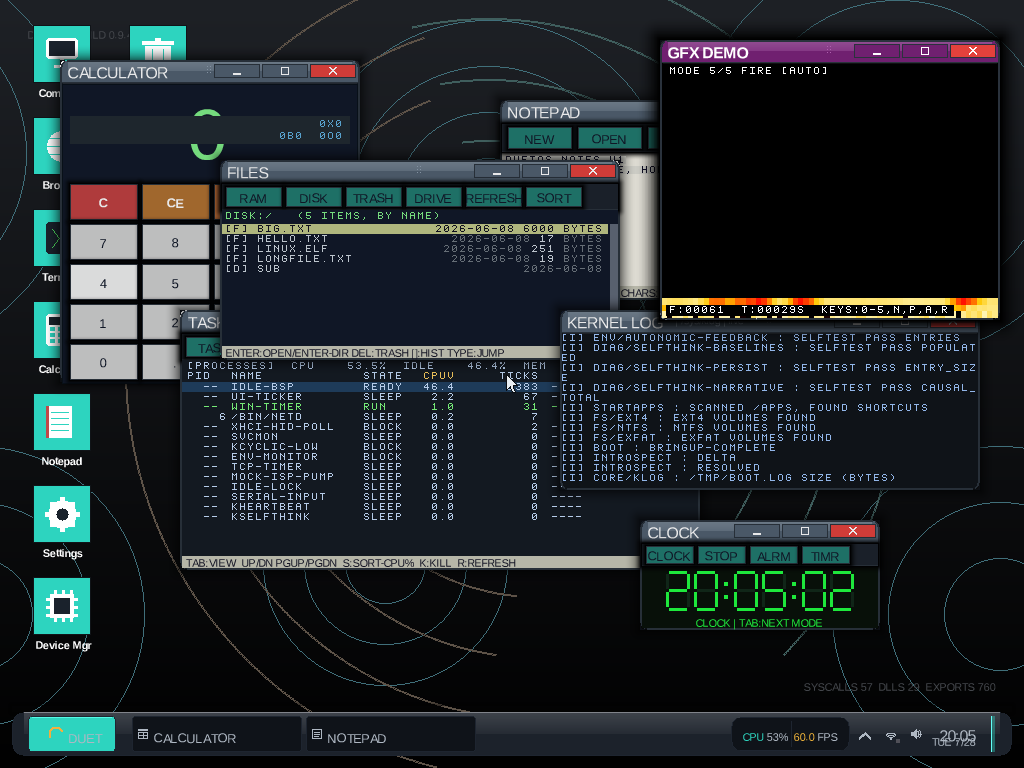
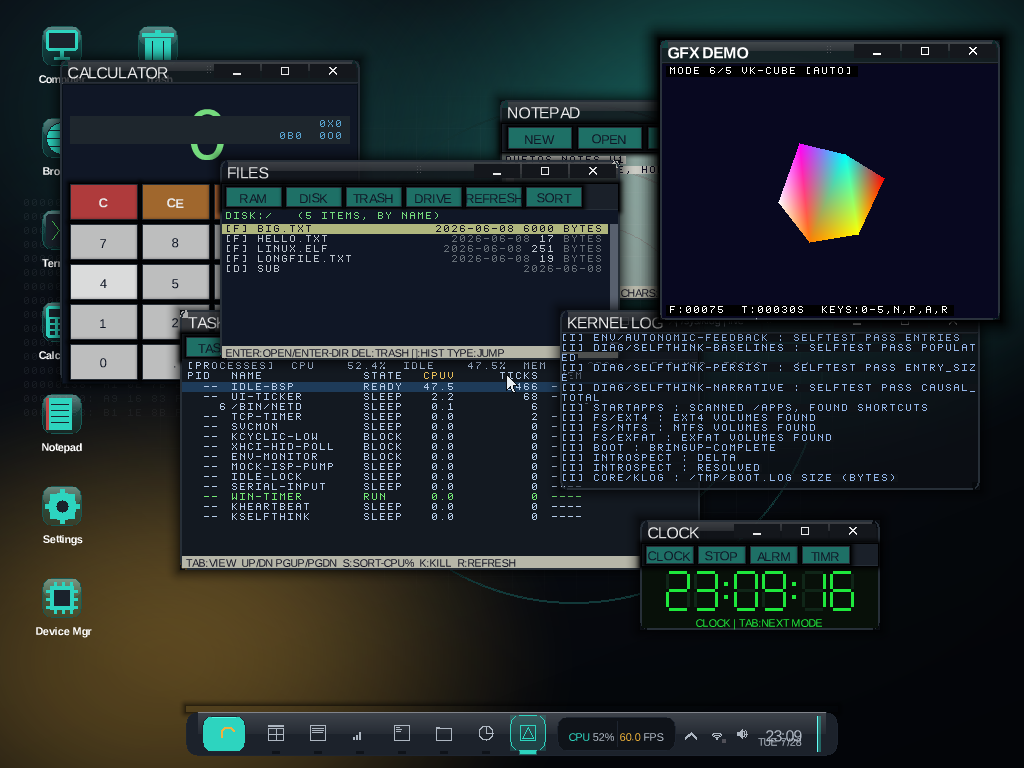
wiki: document the Aurora backdrop, glass body and island content model
Compositor.md gains the wallpaper and desktop-icon sections, the three
new Theme tokens, the glass-body paint contract with its no-blur GAP,
and the explanation of why a content-derived island still measured 98%
of the screen. Design-Decisions records the cached-surface choice and
the neutral-title-strip reading of IMPLEMENTATION section 1.

Screenshots 06 and 09 regenerated on the new chrome.

diff --git a/kernel/drivers/video/wallpaper_aurora.cpp b/kernel/drivers/video/wallpaper_aurora.cpp
@@ -21,11 +21,11 @@ namespace
 struct Palette
 {
     u32 bg0, bg1, bg2;
-    u32 hairline;        // --line, pre-opacity
-    u8 hairline_alpha;   // --line alpha * layer opacity
-    u32 ink2;            // hex-dump band ink
-    u32 vignette;        // --vignette colour
-    u8 vignette_alpha;   // --vignette alpha
+    u32 hairline;      // --line, pre-opacity
+    u8 hairline_alpha; // --line alpha * layer opacity
+    u32 ink2;          // hex-dump band ink
+    u32 vignette;      // --vignette colour
+    u8 vignette_alpha; // --vignette alpha
 };
 
 constexpr Palette kDark = {
@@ -149,8 +149,8 @@ void PaintBlob(u32 w, u32 h, u32 rgb, u32 cx_pct, u32 cy_pct, u32 rx_pct, u32 ry
             {
                 continue;
             }
-            const i64 f = kOne - d2;               // Q12, 1.0 at the centre
-            const i64 falloff = (f * f) >> 12;     // squared shoulder
+            const i64 f = kOne - d2;           // Q12, 1.0 at the centre
+            const i64 falloff = (f * f) >> 12; // squared shoulder
             const u32 a = static_cast<u32>((static_cast<i64>(peak) * falloff) >> 12);
             CacheBlend(static_cast<u32>(x), static_cast<u32>(y), rgb, a);
         }

diff --git a/wiki/subsystems/Compositor.md b/wiki/subsystems/Compositor.md
@@ -402,6 +402,9 @@ chrome (not type) scales by ≈ 0.53.
 | `gloss_alpha` | 38 (26 light) | 0 | top of the title-bar specular ramp |
 | `taskbar_island` | true | false | taskbar floats as a centred island |
 | `taskbar_inset` | 12 | 0 | gap from the screen edge when island |
+| `accent_peer` | `#ffc046` | 0 | second accent — "Win32 PE peer" amber |
+| `aurora_wallpaper` | true | false | six-layer backdrop instead of the flat painter |
+| `glass_alpha` | 148 | 0 | window body / title-bar composite alpha |
 
 All of them ride `ThemeTactilityEffective()`, so `tactility=off` on the
 cmdline (or `tactility off` at the shell) still yields genuinely flat
@@ -422,6 +425,68 @@ chrome for the debug / screenshot workflow.
   fade reads as a generic gradient.
 - **Sheen hairline.** 1-px white line on the very top edge, fading to
   nothing at both ends, approximated with 16 constant-alpha segments.
+- **Glass body.** With `glass_alpha` set, the body and title bar are
+  `FramebufferBlendFill`ed over the compose surface rather than stamped
+  opaque, so the wallpaper's glow reads through the chrome. Windows are
+  already drawn back-to-front, so an overlapping sibling shows through
+  too. The title bar runs denser than the body (`a + (255-a)/2`) so a
+  13-px title still reads. Corners are cut by splitting the blend into
+  a full-width band plus an inset cap — `BlendFill` is square and
+  `FillRoundRect` is opaque, and at radius 8 a single inset is within a
+  pixel of the true arc.
+  **GAP:** no backdrop blur. The design's 36-px blur-behind would need
+  a cached per-window box blur of the compose surface
+  (`IMPLEMENTATION.md` §4 "full version"); the glass tints but does not
+  frost.
+- **Neutral title strip.** On glass the title bar paints a single
+  neutral `--bg-3` shade for every window rather than the per-role hue,
+  matching the reference desktop; the role colour survives in the
+  client fill, the taskbar glyph and the indicator pill. The close box
+  likewise sits in the strip and only floods `--danger` on hover.
+
+### Wallpaper (`wallpaper_aurora.cpp`)
+
+`README.md` §1 specifies a six-layer backdrop that no flat per-theme
+painter can express. `AuroraWallpaperPaint` builds it:
+
+1. `linear-gradient(158deg, --bg-2, --bg-1 52%, --bg-0)`
+2. three radial accent blobs (teal 74%/20%, amber 16%/86%, teal 22%/14%)
+3. a 32-px hairline grid under a radial mask
+4. the hex-dump band — `((r*40+c)*1103515245+12345) & 0xff`, 24 bytes a
+   row, under a 105° linear mask
+5. the counter-rotating arcs watermark at 56% / 46%
+6. the vignette
+
+Layers 1–4 and 6 are static for a given (geometry, palette) pair and
+cost roughly 800 k per-pixel blends, so they are generated once into a
+cached full-screen surface (`AllocateContiguousFrames`, ~3 MB at
+1024 × 768) and blitted per compose; `DesktopCompose` skips its own
+base gradient when `aurora_wallpaper` is set, since the blit covers
+every pixel. Layer 5 rides the ambient-motion phase and is painted
+live on top by `wallpaper.cpp`. A failed cache allocation logs
+`[video/aurora] backdrop cache alloc failed` and falls back to the
+pre-Aurora topo + arcs + brand-strap painter, so the desktop is never
+left unpainted.
+
+Two honest approximations, both because the framebuffer's arc and
+round-rect primitives take an opaque RGB:
+
+- the arcs watermark pre-blends the accent against `--bg-1` instead of
+  blending per pixel (it only ever sits on the smooth part of the base
+  gradient, where the two agree to well under one 8-bit step);
+- the blob peak alphas run hotter than the design's literal
+  .34 / .22 / .14, because the squared falloff concentrates the wash
+  into the middle of each ellipse.
+
+### Desktop icons (`desktop_icons.cpp`)
+
+Aurora tiles are 40 × 40 at radius 10: a translucent accent wash
+(`accent` 30% → 8%) under a white gloss dome (.30 → .06, gone by 52% of
+the tile), an accent border, and the glyph stroked in the accent rather
+than white-on-solid-accent. `BlendRoundRectVGradient` is the one
+primitive this needed — `FillRoundRect` is opaque and `BlendFill` is
+square, and the tile is both rounded and translucent. Palettes with
+`surface_radius == 0` keep the flat solid tile.
 
 ### Taskbar island (`taskbar.cpp`)
 
@@ -433,6 +498,25 @@ framebuffer minus one inset per side, so a busy desktop degrades to a
 near-full-width island rather than running off screen. Every anchor in
 the redraw path (START, tabs, tray, time card, show-desktop rail)
 measures from that rect.
+
+"Content-derived" is only as good as the content. The island's first
+landing measured 170-px title-text tabs, an 88-px "DUET" START word and
+the full-width strip's 400-px right reserve, which came to 1000 px of
+1024 — visually a full-width strip that had simply moved 12 px inward.
+Per `README.md` §10 the island's content is different from the strip's:
+
+- tabs are fixed 36 × 36 icon buttons (52 at 1920) carrying the role
+  glyph, with a running / focused indicator pill underneath — 8 px wide
+  at rest, 16 px plus a halo when focused (the design's 10-px CSS glow
+  has no framebuffer equivalent, so the halo is a hard 1-px accent
+  ring);
+- START drops its label and paints the arcs mark alone at 44 px;
+- the right-hand reserve is 270 px, not 400 — the island's cells pack
+  tighter than the strip's.
+
+Together those put the island near the reference's ~65% of screen
+width. Hit rects follow the painted geometry, so click dispatch is
+unchanged.
 
 - `TaskbarContains` hit-tests the island rect on **both** axes, so a
   click in the desktop margin either side falls through to the
@@ -447,14 +531,19 @@ measures from that rect.
 
 ### Self-test
 
-`ThemeSelfTest` gained two invariants, reported as
+`ThemeSelfTest` gained three invariants, reported as
 `[theme-selftest] aurora-tokens PASS`:
 
 1. A theme with `tactility_enabled == false` must carry no Aurora
-   tokens — one posture, rather than two that can drift apart.
+   tokens — one posture, rather than two that can drift apart. The
+   check covers `accent_peer`, `aurora_wallpaper` and `glass_alpha`
+   alongside the geometry tokens.
 2. `taskbar_island` without a radius or an inset is a silent
    regression: the strip stops reaching the screen edges while still
    painting square corners flush against them.
+3. `aurora_wallpaper` without a **distinct** `accent_peer`, or with a
+   `glass_alpha` of 0 or 255, is a silent opt-in: the backdrop would
+   paint both blobs in one hue and the glass would composite opaque.
 
 ## Chrome Tactility (Pass A)
 

diff --git a/wiki/reference/Design-Decisions.md b/wiki/reference/Design-Decisions.md
@@ -13107,3 +13107,40 @@ markers for its richest input. Three discovery layers were added (runtime
   target, the toast anchor) want the unusable-edge figure, so a second
   accessor would exist only for callers to forget to prefer it — the
   whitelist-incompleteness shape.
+
+### DD — Aurora backdrop is a cached surface, not a per-compose painter
+
+- **Context:** the Aurora wallpaper is six layers, five of which are
+  static for a given (framebuffer geometry, palette) pair. Producing
+  them costs roughly 800 k per-pixel blends at 1024 × 768 — comparable
+  to an entire `DesktopCompose`.
+- **Decision:** generate the static layers once into a dedicated
+  full-screen RGB cache (`AllocateContiguousFrames`, ~3 MB) and blit it
+  per compose; keep only the motion-bearing arcs watermark live.
+- **Rules out:** painting the backdrop procedurally each frame (would
+  roughly triple compose cost and drop the desktop below its 60 fps
+  cadence), and folding the arcs into the cache (they carry the ambient
+  motion phase, and rebuilding a 3 MB surface per rotation step is
+  worse than re-stroking six arcs).
+- **Fallback is mandatory, not optional:** a failed allocation must
+  fall through to the pre-Aurora flat painter. A wallpaper layer that
+  can fail is a layer that can leave the desktop unpainted.
+
+### DD — the Aurora title strip is neutral, not per-role
+
+- **Context:** `IMPLEMENTATION.md` §1 says `role_title` "stays
+  per-role", which was read as "keep painting each window's title bar
+  in its role hue". The reference screenshots paint every window the
+  same neutral `--bg-3` and carry the app's identity in a 16-px accent
+  glyph.
+- **Decision:** on palettes that publish `glass_alpha`, the title strip
+  paints one neutral shade for every window. The role colour survives
+  in the client fill, the taskbar glyph and the indicator pill. The
+  close box joins the strip and only floods `--danger` on hover.
+- **Rules out:** per-role title hues on the Aurora palettes. Nine
+  saturated 30-px title bars side by side was the single loudest way
+  the shipped desktop failed to read as the reference; §1's sentence is
+  about the `Theme` struct not changing shape, not about paint.
+- **Scope:** flat palettes (Classic / Slate10 / Amber / DuetClassic /
+  HighContrast) keep their per-role title bars and their standing red
+  close box unchanged.
